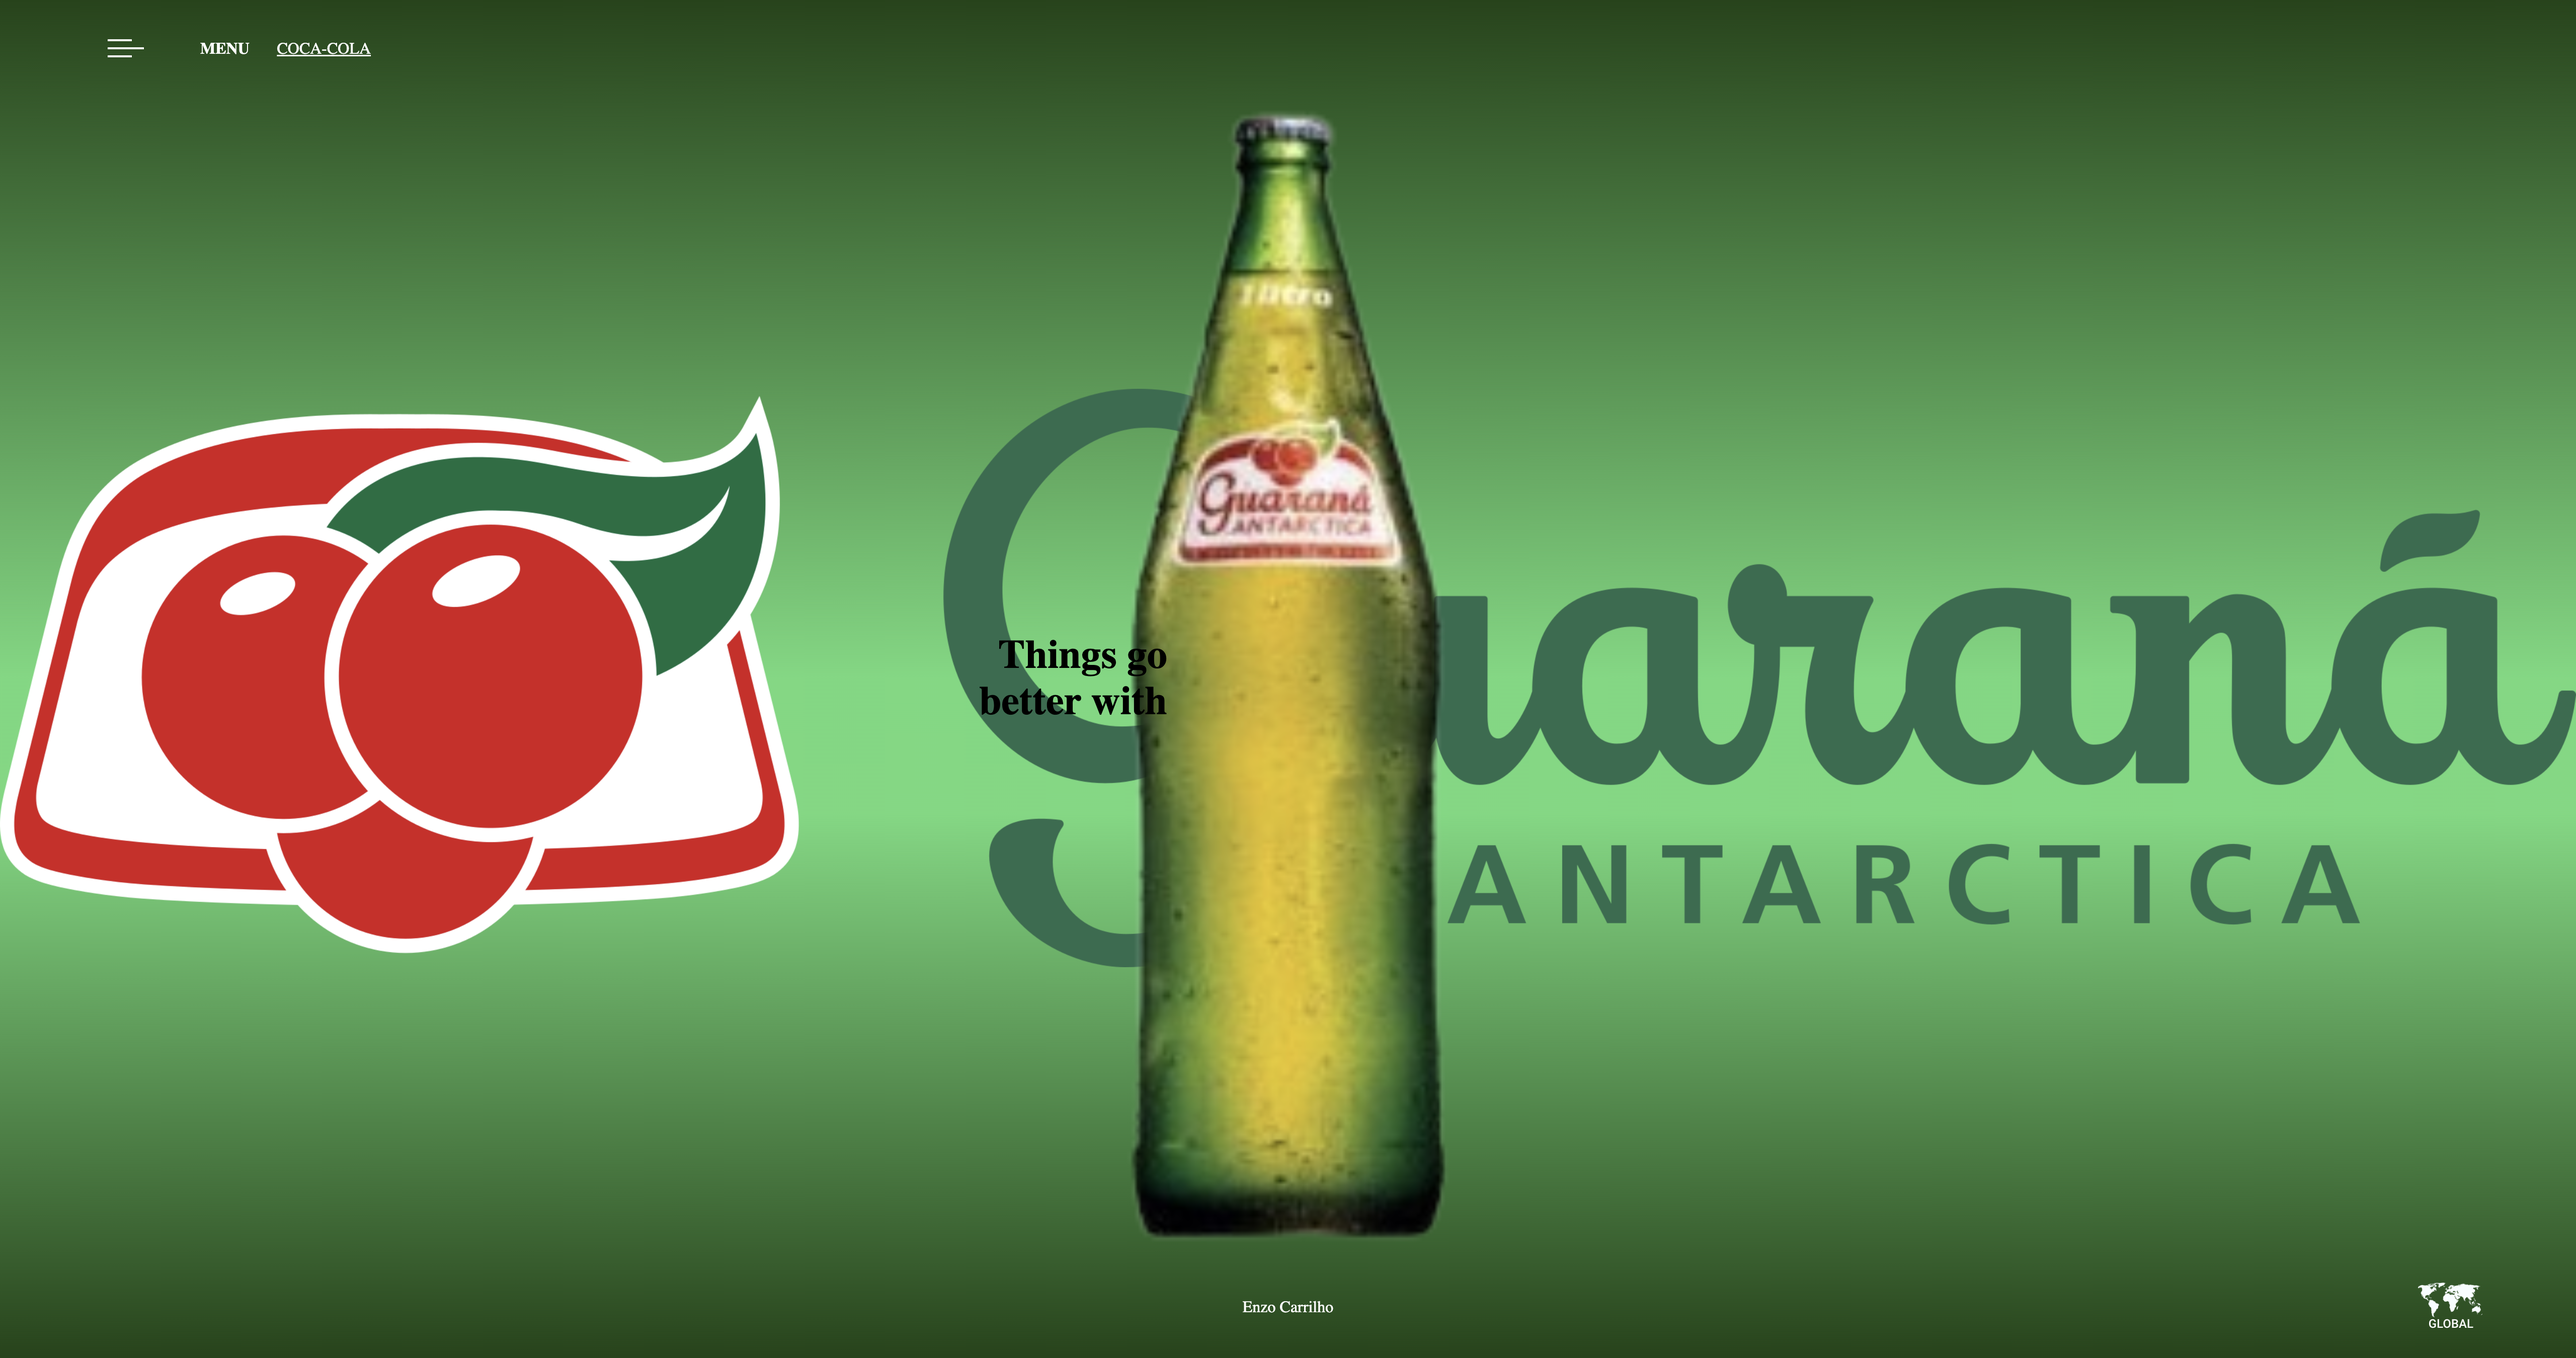
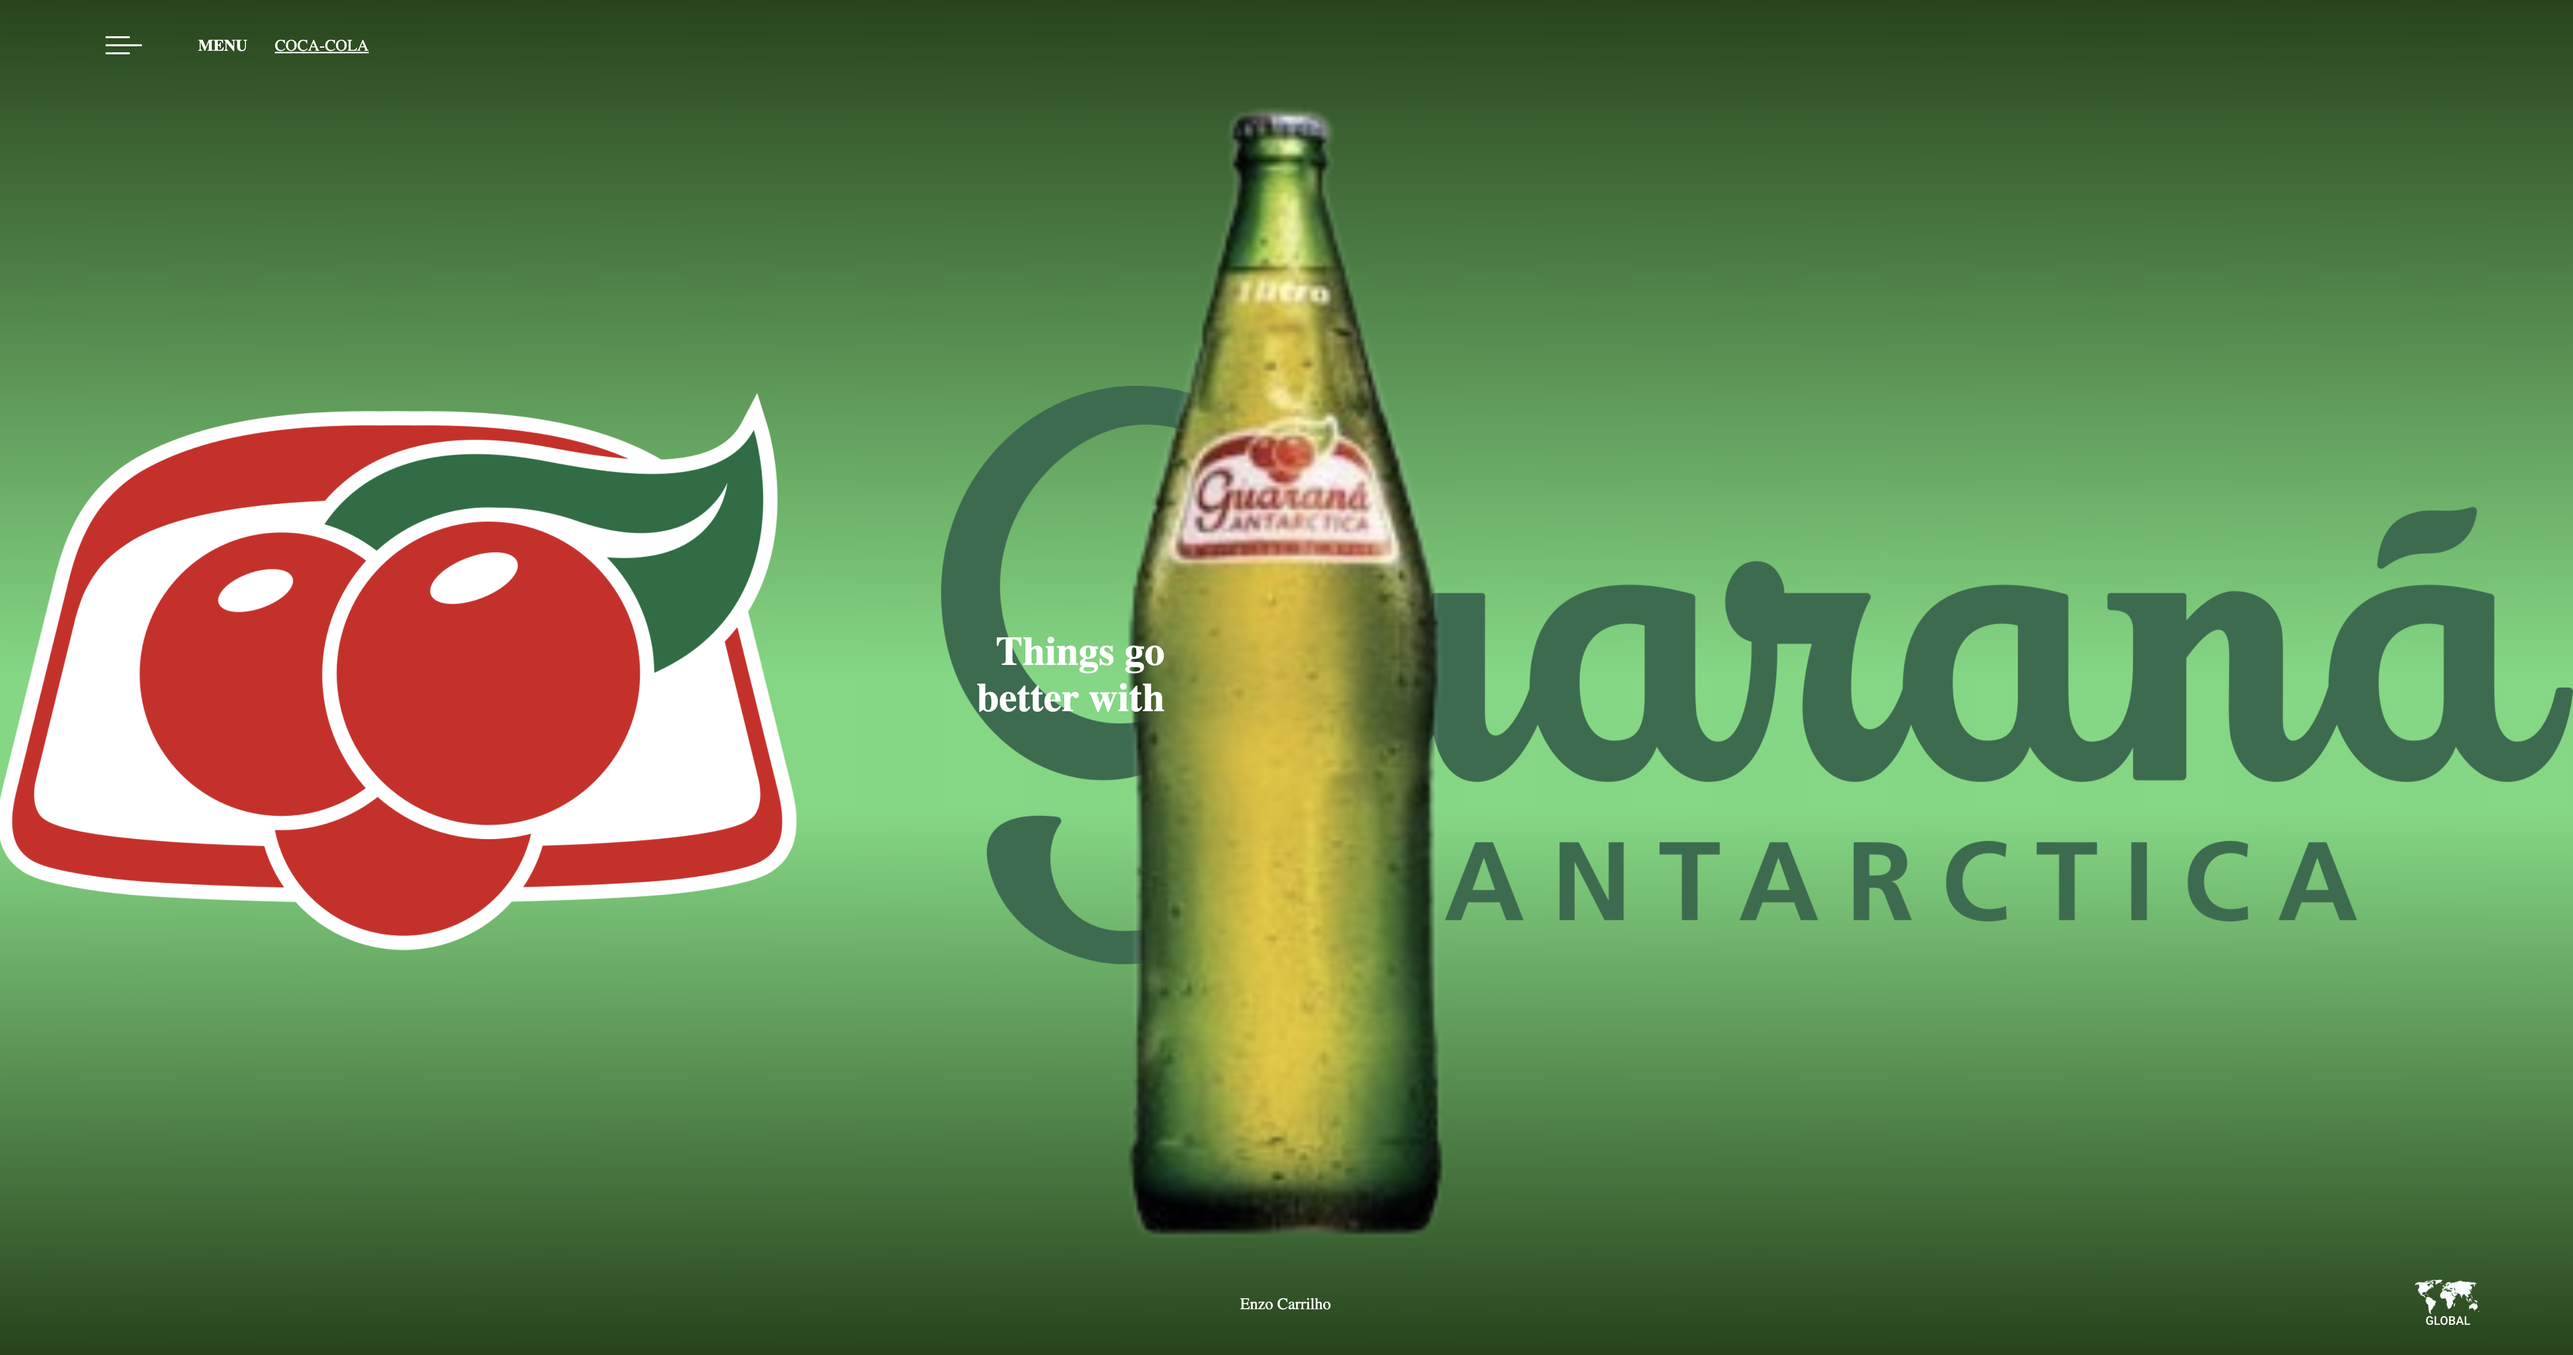
README atualizado

diff --git a/guarana.css b/guarana.css
@@ -45,7 +45,7 @@ main{
 
 .content-text{
     position: absolute;
-    color: #000;
+    color: #fff;
     font-size: 2.5rem;
     width: 240px;
     transform: translateX(-100%);

diff --git a/README.md b/README.md
@@ -5,7 +5,7 @@
 ![](./img/guarana-antarctica-preview.png)
 
 Primeiro website criado, do tipo page, para treino no desenvolvimeto de sites.
-O site foi desenvolvido criando bias práticas, como por exemplo tags semânticas e responsividade
+O site foi desenvolvido criando boas práticas, como por exemplo tags semânticas e responsividade
 
 ## Tecnologias
 
